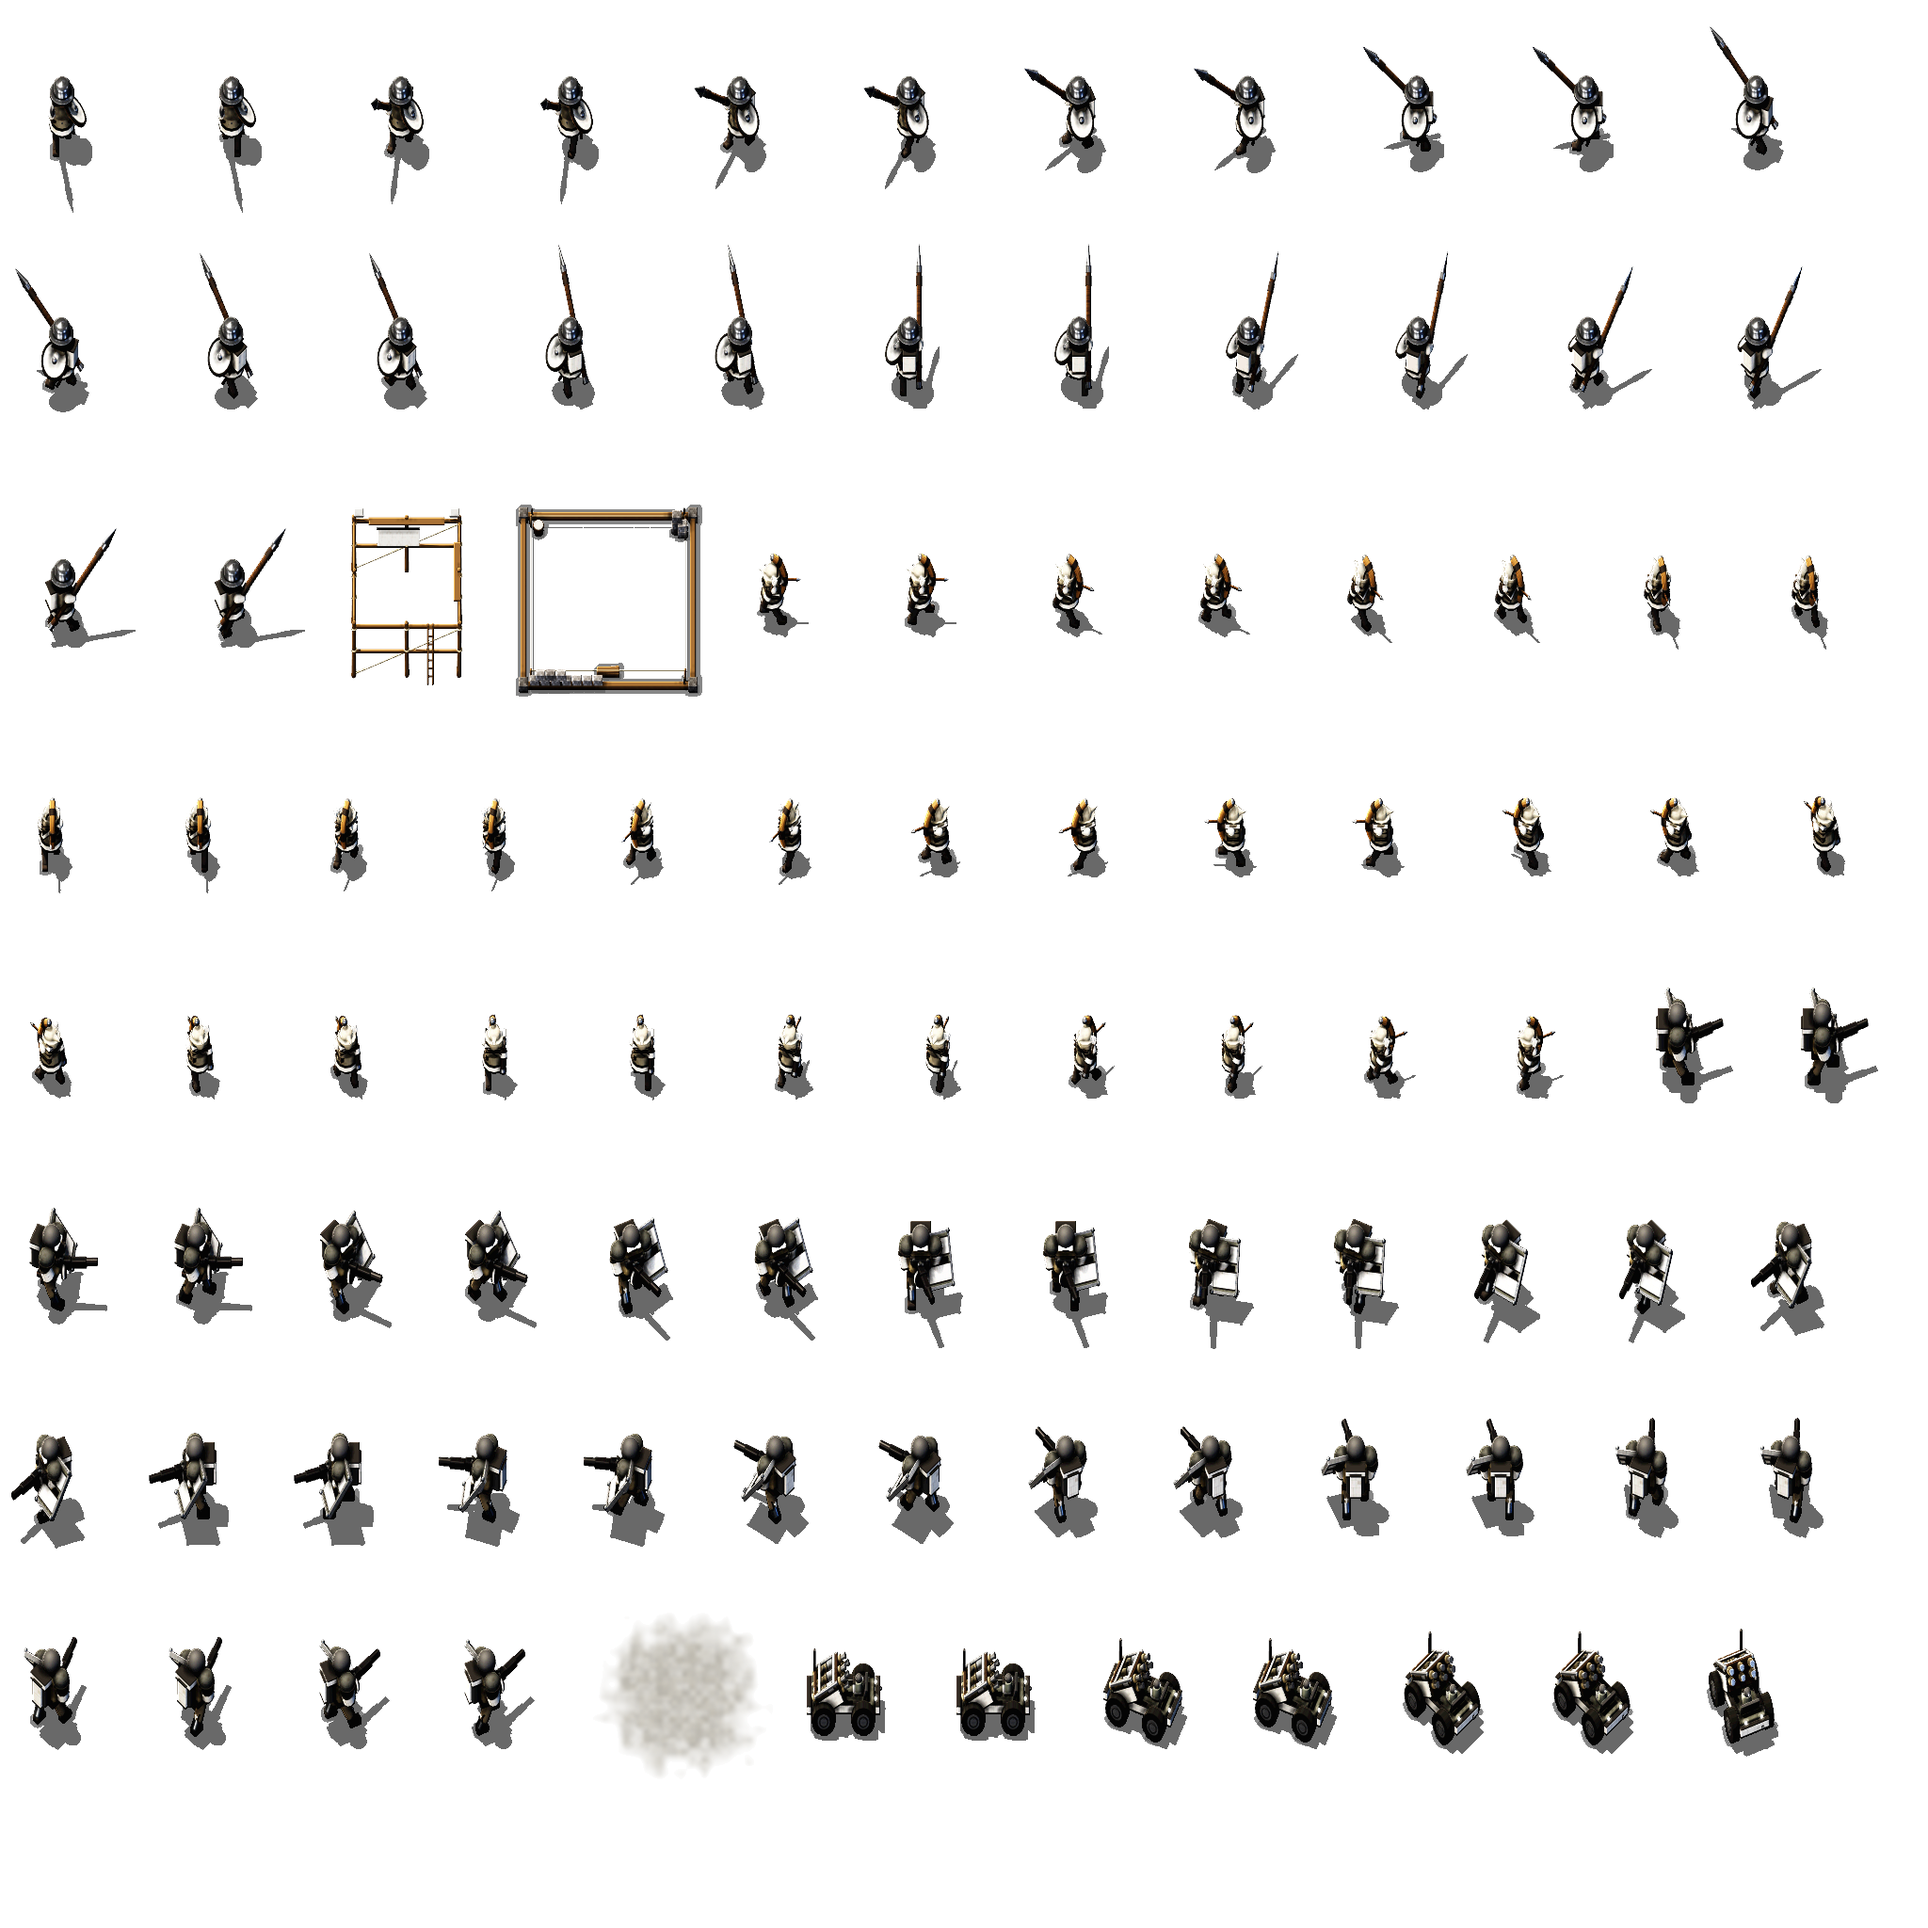
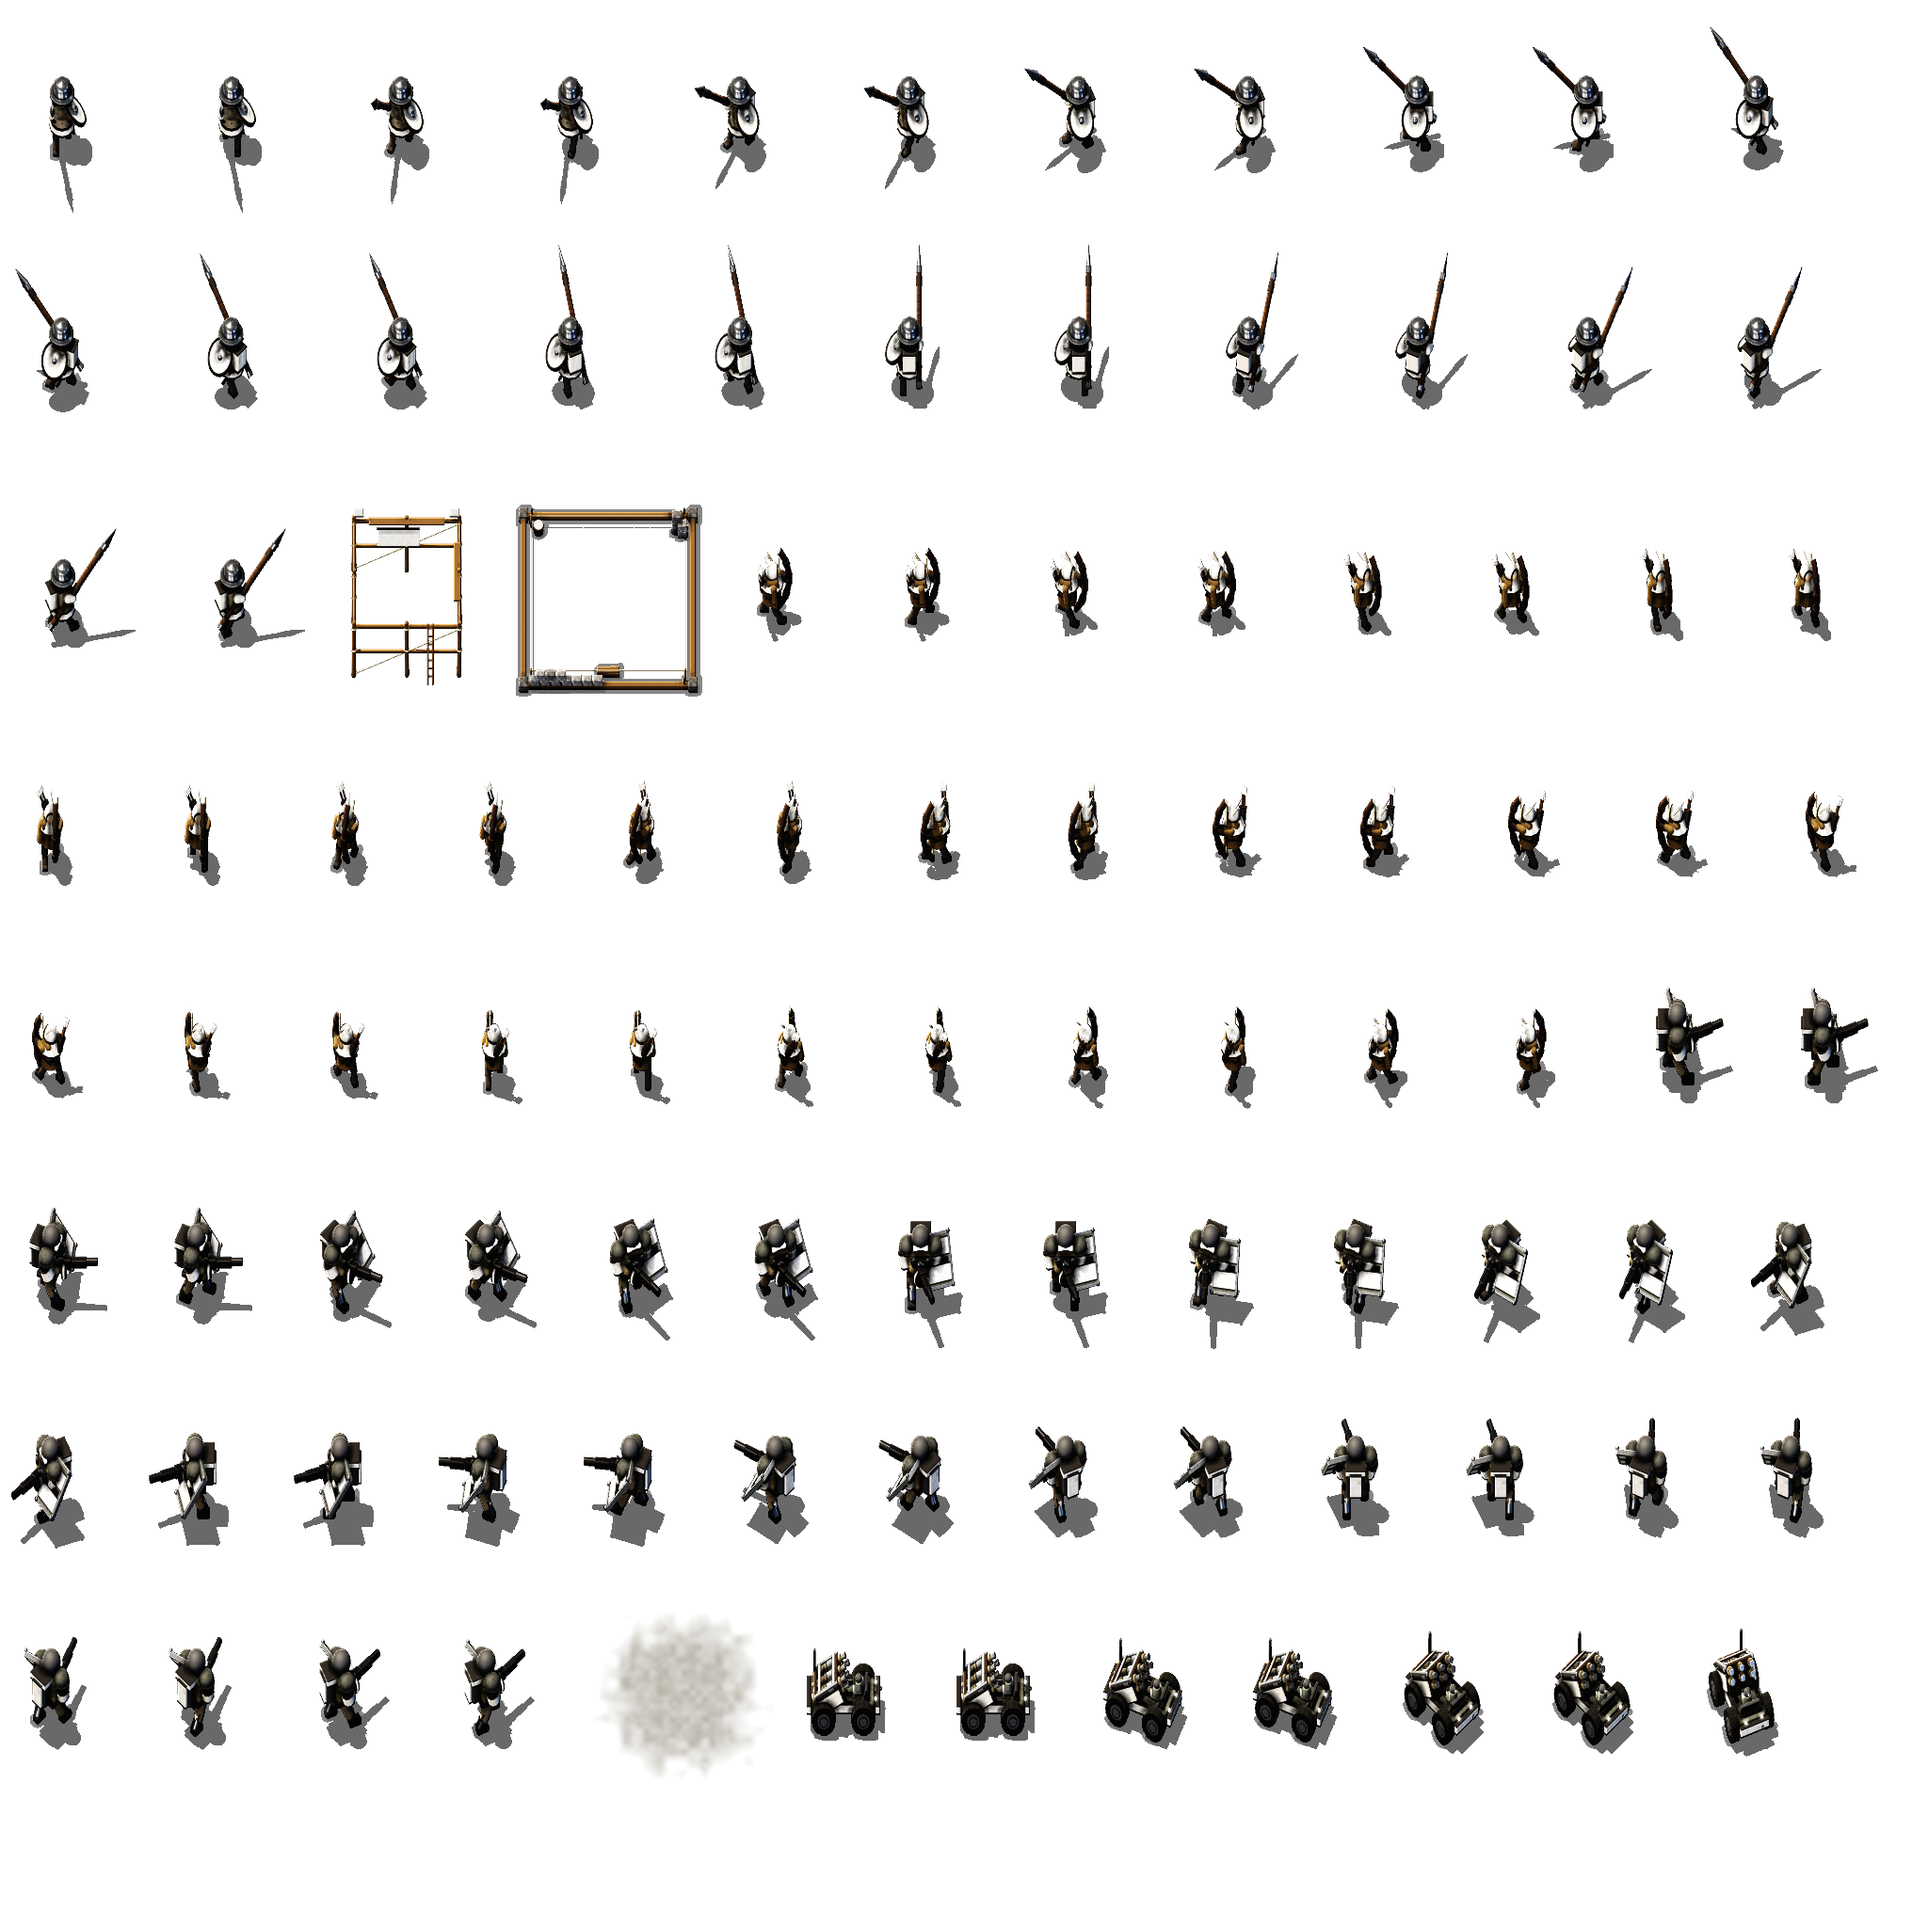
Redraw the Archer Robin Hood style (a pointed team hood and cape, a tall dark longbow held out, a back quiver, a drab tunic) so it no longer reads like the Villager; retheme-archer.mjs draws the comparison pictures; atlas regenerated

diff --git a/tools/render3d/kingdom-units.js b/tools/render3d/kingdom-units.js
@@ -32,12 +32,16 @@ function fam(M) {
     patched: std({ color: 0xcfc8b4, map: patchTex, roughness: 0.92 }),                            // the Balloon's envelope: patched pale canvas
     patchedGrey: std({ color: 0xb4b0a4, map: patchTex, roughness: 0.92 }),                        // ... a greyer, more weathered panel
     canvasOld: std({ color: 0xa08a68, map: patchTex, roughness: 0.92 }),                          // ... an old tan panel (the patchwork's darker tone; the re-test read clean stripes as modern)
+    drab: std({ color: 0x66563a, map: M.canvas.map, roughness: 0.92 }),                            // the Archer's tunic: a dark drab wool, brown-olive (not the grass's green, not the Villager's grey)
+    yew: std({ color: 0x2c1c10, roughness: 0.82 }),                                                 // the Archer's longbow: dark yew, darker than the oak
     rope: M.rope,
   };
-  if (M.polish) { // the polish pass (polish.js polishMats does the kingdom's set; these are the family's own): hide on the bay, folds on the patched canvas
+  if (M.polish) { // the polish pass (polish.js polishMats does the kingdom's set; these are the family's own): hide on the bay, folds on the patched canvas and the drab, grain on the yew
     const X = polishTextures();
     A.horseLight.map = X.hide; A.horseLight.needsUpdate = true;
     for (const m of [A.patched, A.patchedGrey, A.canvasOld]) { m.bumpMap = X.fold; m.bumpScale = 0.8; m.needsUpdate = true; }
+    A.drab.bumpMap = X.fold; A.drab.bumpScale = 1.0; A.drab.needsUpdate = true;
+    A.yew.bumpMap = X.grain; A.yew.bumpScale = 0.8; A.yew.needsUpdate = true;
   }
   FAM.set(M, A); return A;
 }
@@ -57,47 +61,49 @@ function band(g, M, r, h, x, y, z, rx = 0, ry = 0, rz = 0) {
   return p;
 }
 
-/** Archer (ranged line infantry, sim r 10-11, scale 1.04): a bowman in a padded coat (undyed wool quilted with dark
- *  cords), a pale linen hood whose point hangs back (its own head shape: not the Villager's snug dome nor the Guard's
- *  steel disc), a tall bow held up in the left hand ahead of the body with the string drawn back to the cheek (a
- *  curved arc, never the Guard's straight bar), a quiver on the right hip with arrows fletched in team cloth, a team
- *  baldric across the chest, team hem and sleeves. From the camera: a pale pointed hood, a tall arc ahead, a team
- *  sash; no shield, no long spear. Frames 0-1 the step. */
+/** Archer (ranged line infantry, sim r 10-11, scale 1.04): Robin Hood's silhouette (Stelian, 2026-11-11: the first
+ *  Archer, a hooded bowman drawing a short bow over a quilted coat, read like the Villager: both seemed to carry
+ *  something). A pointed team hood whose point rises back, a short team cape over the shoulders between ink hems, the
+ *  face in the hood's opening; a slim tunic of dark drab wool over a leather belt, dark hose; a tall longbow of dark
+ *  yew, about the figure's height, held upright out from the body in the left hand, undrawn, its string along the
+ *  chord; a leather quiver slung on the back with three arrows whose fletchings, team cloth, stand up behind the
+ *  right shoulder; a strap across the chest. Nothing pale or gold near the hands or on the back (the team hood is the
+ *  pale-headed kingdom's one exception, Stelian's ask: the seat reads by the hood). From the camera: a team point over
+ *  a dark slim figure with a tall dark bar standing out ahead of it; no load, no shield, no bar angled up. Frames 0-1
+ *  the walk. */
 export function archer(M, f) {
-  const g = figure(M, f, { tunic: M.tunic, skirt: 4.0 }), b = g.body;
-  for (const y of [9.0, 10.4, 11.8]) add(b, rbox(5.15, 0.3, 6.75, 0.05), M.leather, 0, y, 0);  // the coat's quilting cords
-  add(b, cyl(4.0, 4.2, 1.4, 12), M.cloth, 0, 6.3, 0); add(b, cyl(4.1, 4.1, 0.35, 12), M.inkLine, 0, 7.1, 0); add(b, cyl(4.25, 4.25, 0.4, 12), M.inkLine, 0, 5.55, 0); // a team hem band on the skirt
-  add(b, rbox(5.4, 1.4, 7.2, 0.2), M.cloth, 0.2, 10.6, 0, 0.55, 0, 0);                        // the baldric across the chest, team, from the right shoulder to the left hip
-  add(b, rbox(5.5, 0.3, 7.4, 0.05), M.inkLine, 0.2, 11.35, 0, 0.55, 0, 0); add(b, rbox(5.5, 0.3, 7.4, 0.05), M.inkLine, 0.2, 9.85, 0, 0.55, 0, 0);
-  // the hood: pale linen over the head, a cowl over the shoulders, its point hanging back
-  add(b, cyl(3.4, 2.5, 2.4, 12), M.linen, -0.2, 12.4, 0);                                       // the cowl
-  add(b, cyl(3.5, 3.5, 0.35, 12), M.inkLine, -0.2, 11.2, 0);                                    // its hem
-  add(b, sph(2.4, 14, 10), M.linen, 0.1, 13.8, 0).scale.set(1, 1.05, 1);                        // the hood over the head
-  add(b, cone(1.5, 4.4, 10), M.linen, -2.6, 14.2, 0, 0, 0, 1.45);                               // its point, hanging back
-  add(b, sph(1.5, 12, 10), M.skin, 1.8, 13.3, 0).scale.set(0.75, 0.9, 0.9);                     // the face in its opening
-  add(b, torus(1.7, 0.3, 14), M.inkLine, 1.9, 13.4, 0, 0, Math.PI / 2, 0).scale.set(1, 1.1, 1);  // the opening's dark edge
-  // the quiver on the right hip, tilted back, arrows out of its mouth with team fletching
-  const qv = grp(); qv.position.set(-2.2, 7.6, 3.2); qv.rotation.set(0, 0, -0.45); b.add(qv);
-  add(qv, cyl(1.3, 1.1, 6.0, 10), M.leather, 0, 0, 0);
-  band(qv, M, 1.4, 1.6, 0, 1.6, 0);                                                            // a team band round it
-  for (const [x, z] of [[0.4, 0.3], [-0.4, -0.4], [0.1, 0.6]]) { add(qv, cyl(0.3, 0.3, 5.0, 6), M.oak, x, 4.6, z); add(qv, rbox(1.3, 1.6, 0.4, 0.1), M.cloth, x, 6.8, z); add(qv, rbox(0.4, 1.6, 1.3, 0.1), M.cloth, x, 6.8, z); }
-  // the bow: tall, held up ahead in the left hand, its arc bulging ahead (+x), the string drawn to the cheek
-  const BR = 7.2, GX = 4.6, GY = 11.0, GZ = -0.6, bw = grp(); bw.position.set(GX - BR, GY, GZ); b.add(bw);
-  add(bw, torus(BR, 1.05, 28, 2.3), M.timberPale, 0, 0, 0, 0, 0, -1.15);                        // the stave: an arc of 2.3 rad centred on +x, light timber, drawn three times its thickness (the judge: a hair-thin dark arc on a dark coat)
-  for (const s of [-1, 1]) add(bw, sph(1.0, 8, 6), M.steel, BR * Math.cos(1.15), s * BR * Math.sin(1.15), 0); // steel nocks at the tips
-  add(bw, cyl(1.25, 1.25, 2.6, 8), M.leather, BR, 0, 0);                                        // the grip
-  const tip = (s) => [BR * Math.cos(1.15), s * BR * Math.sin(1.15), 0], hand = [BR - 4.2, 0.6, 1.2];
-  limb(bw, tip(1), hand, 0.3, M.rope); limb(bw, hand, tip(-1), 0.3, M.rope);                     // the string, drawn back (drawn thick)
-  add(bw, cyl(0.3, 0.3, 11.0, 6), M.oak, BR - 1.0, 0.3, 0.6, 0, 0, Math.PI / 2);                  // the arrow on the string
-  add(bw, cone(0.5, 1.6, 6), M.steel, BR + 5.2, 0.3, 0.6, 0, 0, -Math.PI / 2);                   // its head
-  limb(b, [0.6, 11.2, -3.4], [GX - 0.6, GY, GZ], 1.15, M.cloth); add(b, sph(0.85, 8, 6), M.skin, GX - 0.4, GY, GZ);  // the bow arm, a team sleeve
-  limb(b, [0.6, 11.2, 3.4], [GX - 4.2, 11.6, 0.8], 1.15, M.cloth); add(b, sph(0.85, 8, 6), M.skin, GX - 4.4, 11.6, 0.6); // the drawing arm, back to the cheek
-  if (M.polish) { // secondary detail (the polish pass, what reads at 2x): a belt buckle, a leather bracer on the bow arm, ink cuffs at the wrists, leather bindings on the stave's limbs, a steel ring at the quiver's foot
-    add(b, rbox(1.3, 1.1, 0.5, 0.1), M.steel, 2.75, 8.3, 0);
-    limb(b, [2.47, 11.09, -1.86], [3.39, 11.04, -1.1], 1.3, M.leather);                           // the bracer on the bow arm's forearm
-    add(b, sph(1.25, 8, 6), M.inkLine, 3.66, 11.02, -0.88); add(b, sph(1.25, 8, 6), M.inkLine, 0.42, 11.55, 1.11);
-    for (const s of [-1, 1]) add(bw, cyl(1.3, 1.3, 1.6, 8), M.leather, BR * Math.cos(0.8), s * BR * Math.sin(0.8), 0, 0, 0, s * 0.8); // bindings where the limbs meet the grip's riser
-    add(qv, cyl(1.3, 1.3, 0.8, 10), M.steel, 0, -2.2, 0);
+  const A = fam(M), g = figure(M, f, { tunic: A.drab, skirt: 3.5 }), b = g.body;
+  // the hood and the cape: team cloth, the cape's hem and the collar in ink, the hood's point up and back
+  add(b, cyl(2.6, 4.3, 2.8, 12), M.cloth, -0.2, 11.8, 0);                                        // the short cape over the shoulders (to y 10.4: the tunic and belt show under it)
+  add(b, cyl(4.4, 4.4, 0.4, 12), M.inkLine, -0.2, 10.3, 0);                                      // its hem
+  add(b, cyl(2.7, 2.7, 0.35, 12), M.inkLine, -0.2, 13.2, 0);                                     // the collar's seam
+  add(b, sph(2.4, 14, 10), M.cloth, 0.1, 13.8, 0).scale.set(1, 1.05, 1);                         // the hood over the head
+  add(b, cone(1.3, 4.8, 10), M.cloth, -1.3, 16.6, 0, 0, 0, 0.8);                                 // its point, rising back (the apex near x -3, y 18.3; slim: round 1's fat cone read as a flame)
+  add(b, sph(1.5, 12, 10), M.skin, 1.8, 13.3, 0).scale.set(0.75, 0.9, 0.9);                      // the face in its opening
+  add(b, torus(1.7, 0.3, 14), M.inkLine, 1.9, 13.4, 0, 0, Math.PI / 2, 0).scale.set(1, 1.1, 1);   // the opening's dark edge
+  // the quiver on the back: leather, its mouth up behind the right shoulder (+z), three arrows out of it with team
+  // fletching; the strap over the right shoulder to the left hip
+  const qv = grp(); qv.position.set(-3.3, 10.8, 0.6); qv.rotation.set(0.47, 0, 0.08); b.add(qv);
+  add(qv, cyl(1.35, 1.15, 7.4, 10), M.leather, 0, 0, 0);
+  add(qv, cyl(1.4, 1.4, 0.4, 10), M.inkLine, 0, 3.5, 0);                                         // the mouth's dark rim
+  for (const [x, z] of [[0.4, 0.3], [-0.4, -0.4], [0.1, 0.6]]) { add(qv, cyl(0.3, 0.3, 5.0, 6), M.oak, x, 5.6, z); add(qv, rbox(1.4, 1.7, 0.4, 0.1), M.cloth, x, 7.5, z); add(qv, rbox(0.4, 1.7, 1.4, 0.1), M.cloth, x, 7.5, z); }
+  add(b, rbox(5.3, 0.9, 7.0, 0.1), M.leather, 0.1, 9.6, 0, -0.6, 0, 0);                          // the strap across the chest (and the back)
+  // the longbow: an arc of dark yew (radius BR, half-angle HA: a stave 16.8 tall, 3.6 deep) standing upright ahead of
+  // the body at the left hand, its belly out (+x), the string straight along the chord; drawn three times its thickness
+  const BR = 11.5, HA = 0.82, GX = 6.2, GY = 10.4, GZ = -1.6, bw = grp(); bw.position.set(GX - BR, GY, GZ); b.add(bw);
+  add(bw, torus(BR, 1.0, 36, 2 * HA), A.yew, 0, 0, 0, 0, 0, -HA);                                // the stave
+  const tip = (s) => [BR * Math.cos(HA), s * BR * Math.sin(HA), 0];
+  limb(bw, tip(1), tip(-1), 0.25, M.rope);                                                       // the string (thin: at 1x the stave is the bow)
+  add(bw, cyl(1.25, 1.25, 2.8, 8), M.leather, BR, 0, 0);                                        // the grip
+  limb(b, [0.6, 11.2, -3.4], [GX - 0.6, GY, GZ], 1.15, A.drab); add(b, sph(0.9, 8, 6), M.skin, GX - 0.3, GY, GZ);  // the bow arm, out ahead
+  limb(b, [0.6, 11.2, 3.4], [1.4, 7.2, 3.9], 1.15, A.drab); add(b, sph(0.9, 8, 6), M.skin, 1.5, 6.8, 3.9);         // the right arm, down at the side
+  if (M.polish) { // secondary detail (the polish pass, what reads at 2x): a small grey feather on the hood's left, a leather bracer on the bow arm, ink cuffs, leather bindings on the stave's limbs, an iron ring at the quiver's foot, a dark buckle on the strap
+    add(b, rbox(0.3, 3.0, 0.9, 0.1), M.tunic, -0.8, 16.2, -2.2, 0, 0, 0.7);
+    limb(b, [3.6, 10.6, -2.4], [4.9, 10.45, -1.9], 1.3, M.leather);
+    add(b, sph(1.25, 8, 6), M.inkLine, 5.2, 10.45, -1.75); add(b, sph(1.2, 8, 6), M.inkLine, 1.3, 7.6, 3.85);
+    for (const s of [-1, 1]) add(bw, cyl(1.25, 1.25, 1.6, 8), M.leather, BR * Math.cos(0.42), s * BR * Math.sin(0.42), 0, 0, 0, s * 0.42);
+    add(qv, cyl(1.3, 1.3, 0.8, 10), M.ironDark, 0, -3.2, 0);
+    add(b, rbox(1.0, 1.2, 1.2, 0.1), M.ironDark, 2.6, 10.6, -1.6);
   }
   g.scale.setScalar(1.04);
   return g;
